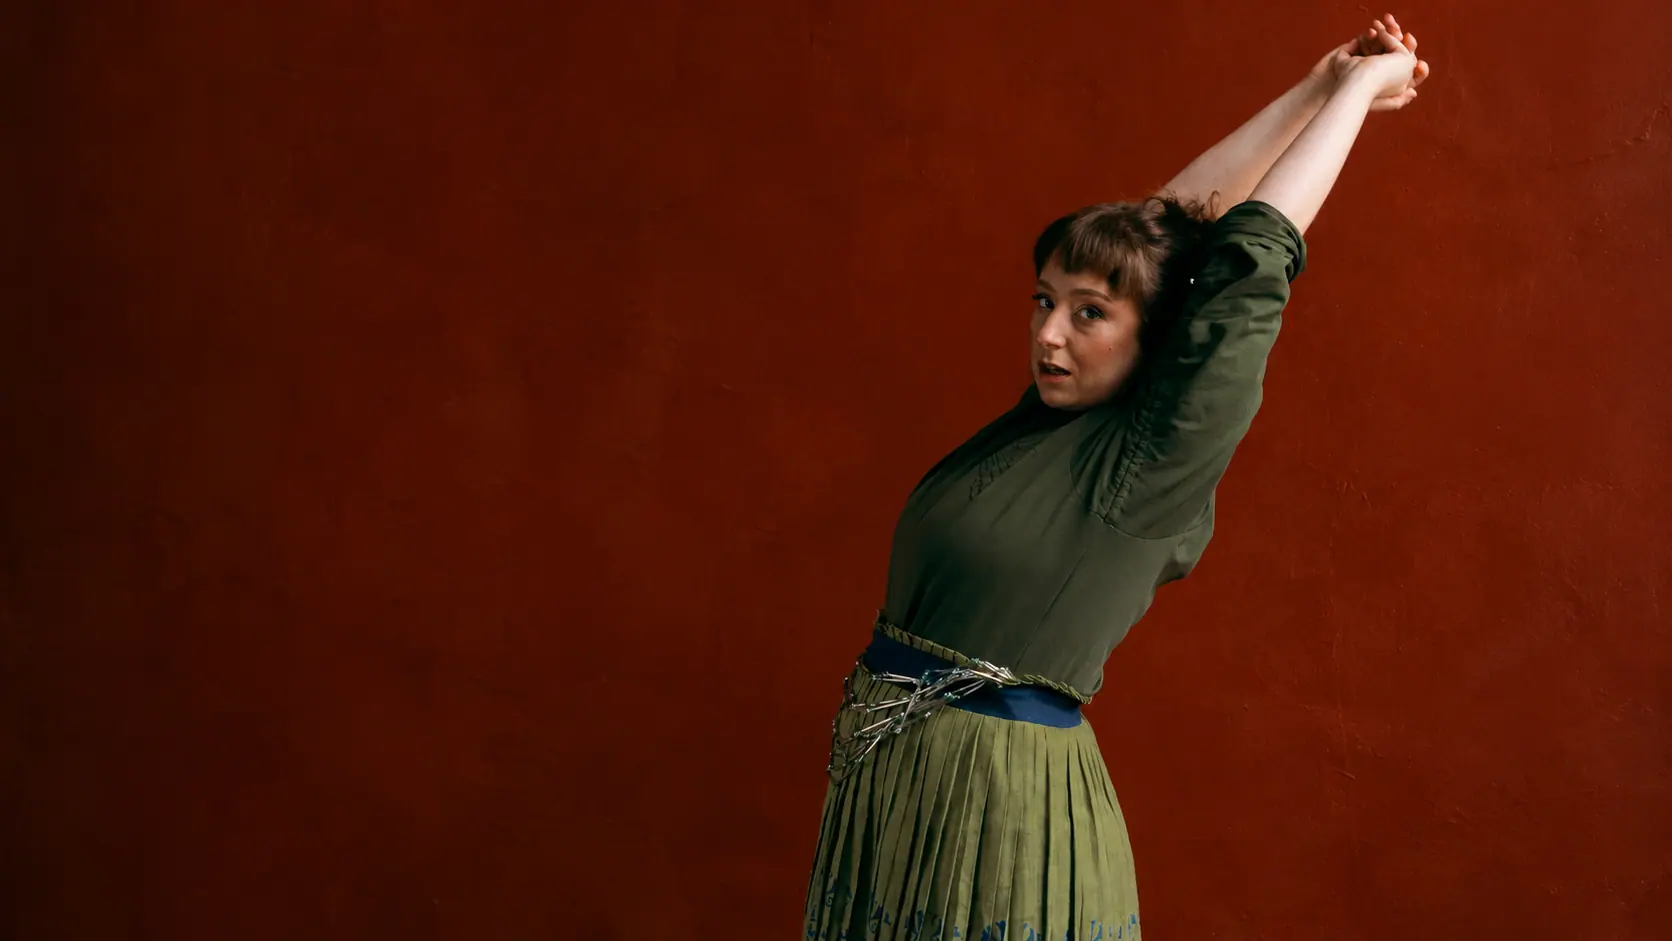
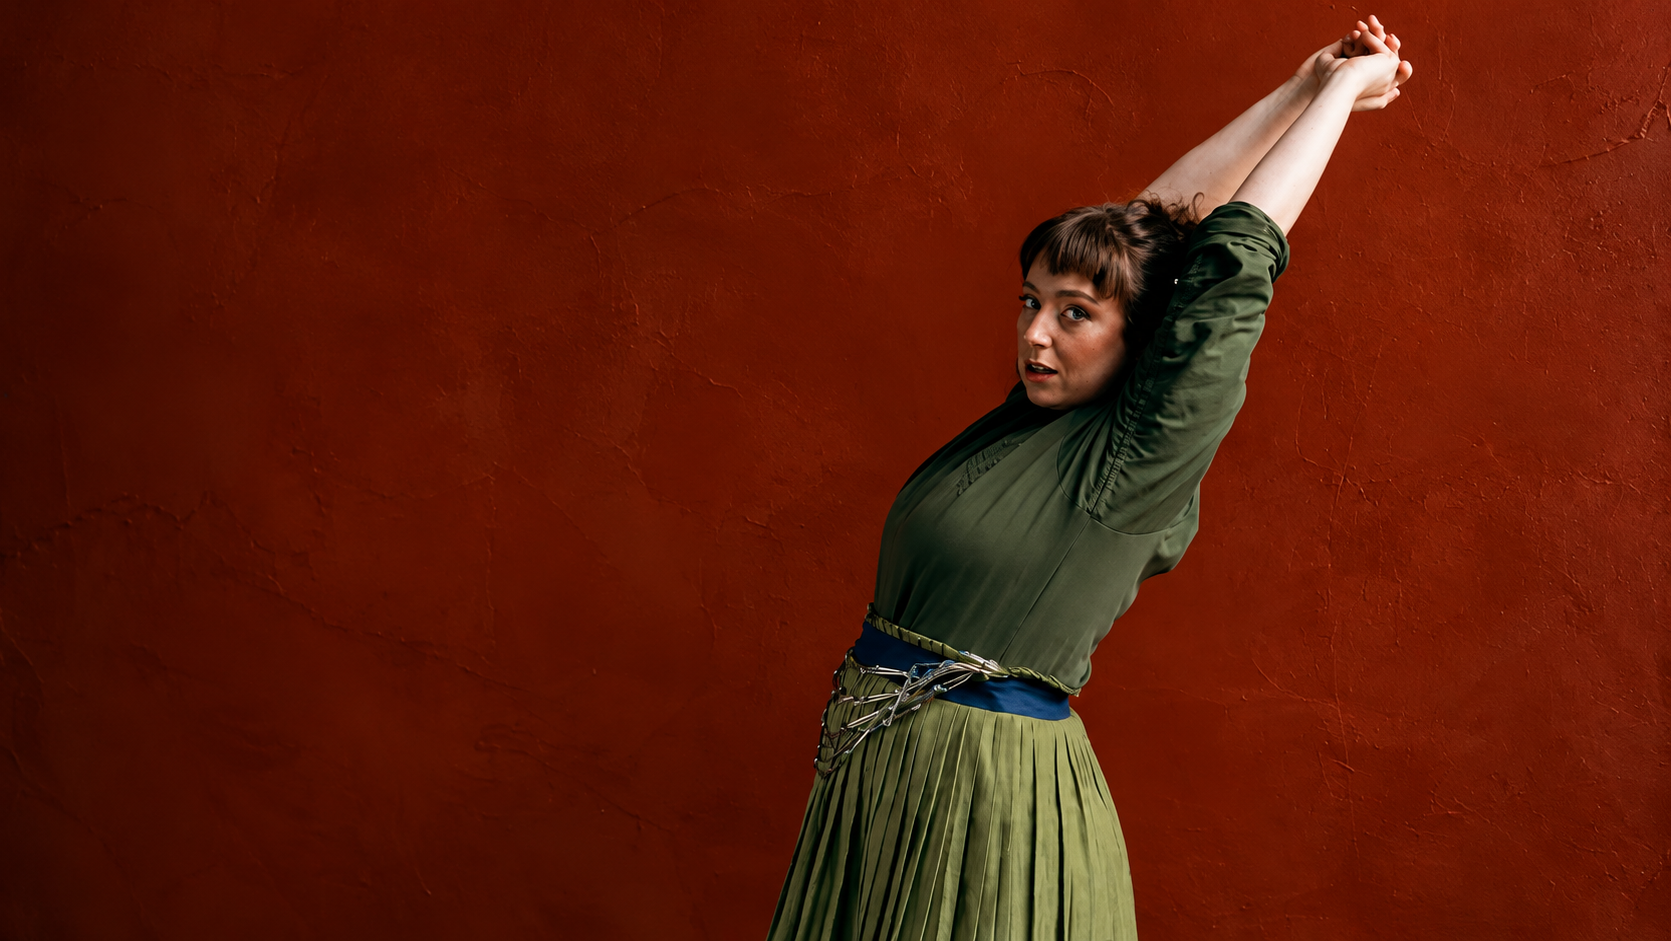
Fix type checks and CI route validation

diff --git a/src/scripts/hero-scroll.ts b/src/scripts/hero-scroll.ts
@@ -1,4 +1,5 @@
 // Native scroll-linked hero choreography. No scroll interception or dependencies.
+export {};
 const clamp=(value:number)=>Math.max(0,Math.min(1,value));
 const smooth=(t:number)=>{const x=clamp(t);return x*x*(3-2*x)};
 const reducedMotion=matchMedia('(prefers-reduced-motion: reduce)');

diff --git a/src/scripts/contact-scroll.ts b/src/scripts/contact-scroll.ts
@@ -1,4 +1,5 @@
 // Contact motion follows native scrolling; do not intercept navigation or scroll.
+export {};
 const clamp=(v:number)=>Math.max(0,Math.min(1,v));
 const ease=(v:number)=>{const t=clamp(v);return t*t*(3-2*t)};
 const reduced=matchMedia('(prefers-reduced-motion: reduce)');
